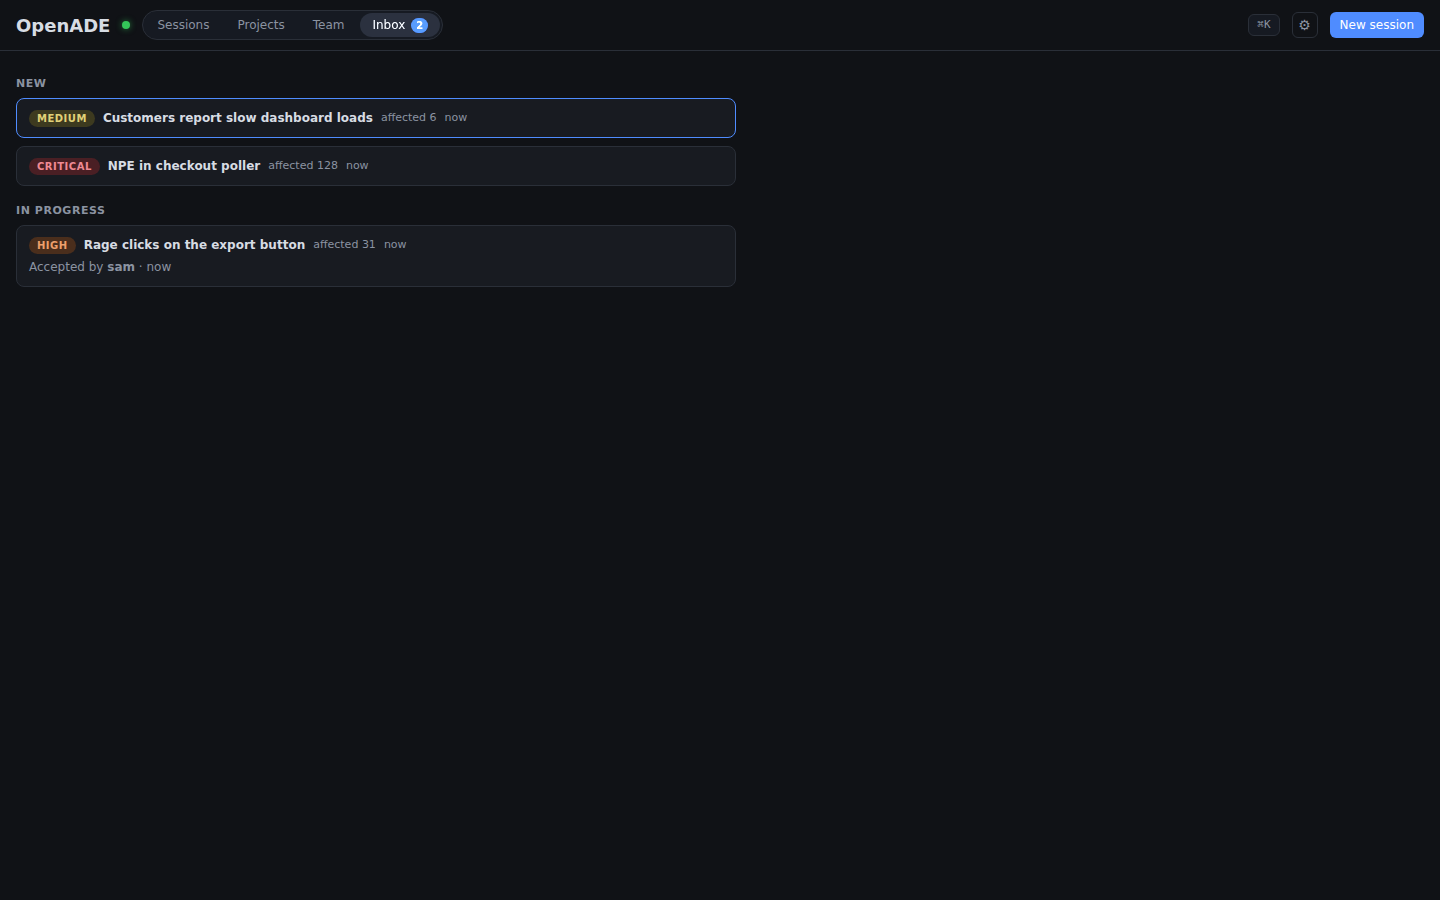
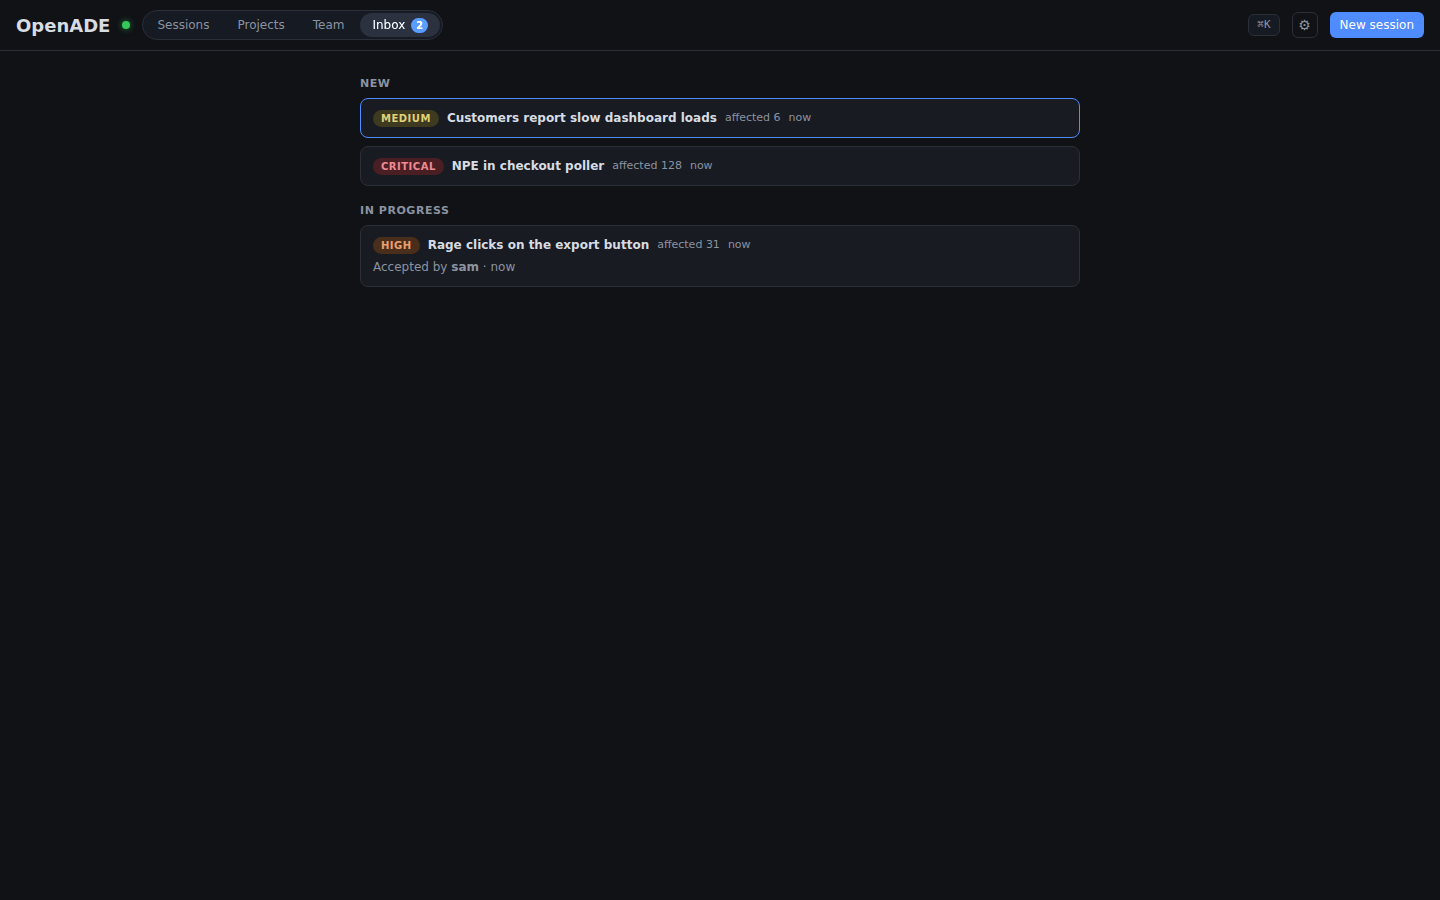
Center the Inbox and Team content columns
The capped columns (inbox/team list and detail) hugged the left edge;
they now center in the window. Refreshed the README screenshots.

Claude-Session: https://claude.ai/code/session_0115vRzANxcoBCkLF4D3KneV

Changed region(s): [[0.0, 0.0622, 0.5625, 0.3111]]

diff --git a/apps/desktop/src/styles.css b/apps/desktop/src/styles.css
@@ -927,6 +927,8 @@ button.project-group-header:hover {
   flex-direction: column;
   gap: 8px;
   max-width: 720px;
+  width: 100%;
+  margin: 0 auto;
 }
 
 .team-row {
@@ -975,6 +977,8 @@ button.project-group-header:hover {
   display: flex;
   flex-direction: column;
   gap: 10px;
+  width: 100%;
+  margin: 0 auto;
 }
 
 .team-pickup {
@@ -1042,6 +1046,8 @@ button.project-group-header:hover {
   flex-direction: column;
   gap: 8px;
   max-width: 720px;
+  width: 100%;
+  margin: 0 auto;
 }
 
 .inbox-group {
@@ -1117,6 +1123,8 @@ button.project-group-header:hover {
   display: flex;
   flex-direction: column;
   gap: 10px;
+  width: 100%;
+  margin: 0 auto;
 }
 
 .inbox-actions {
